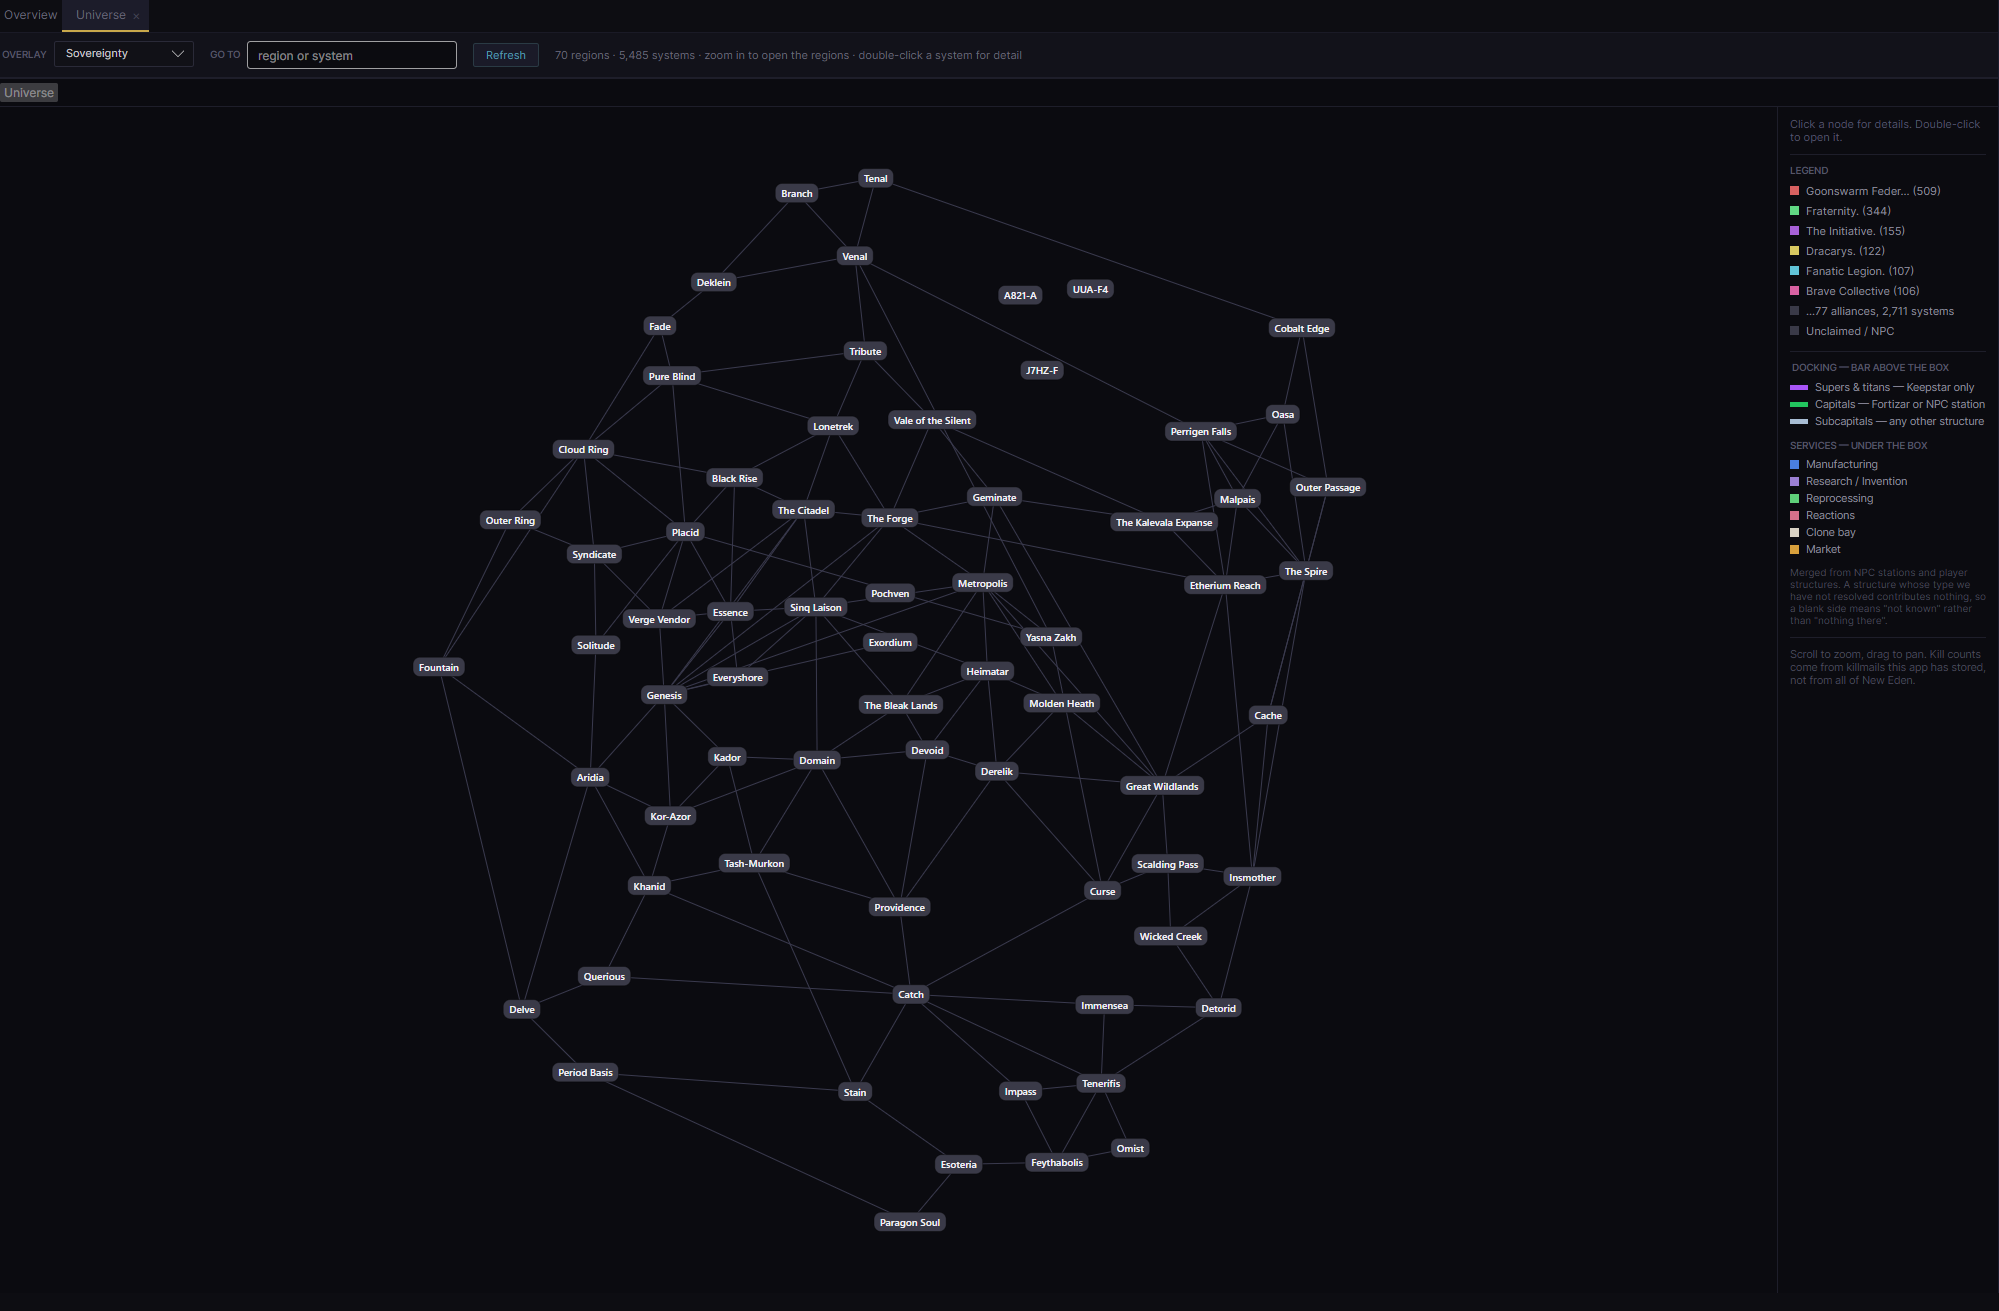
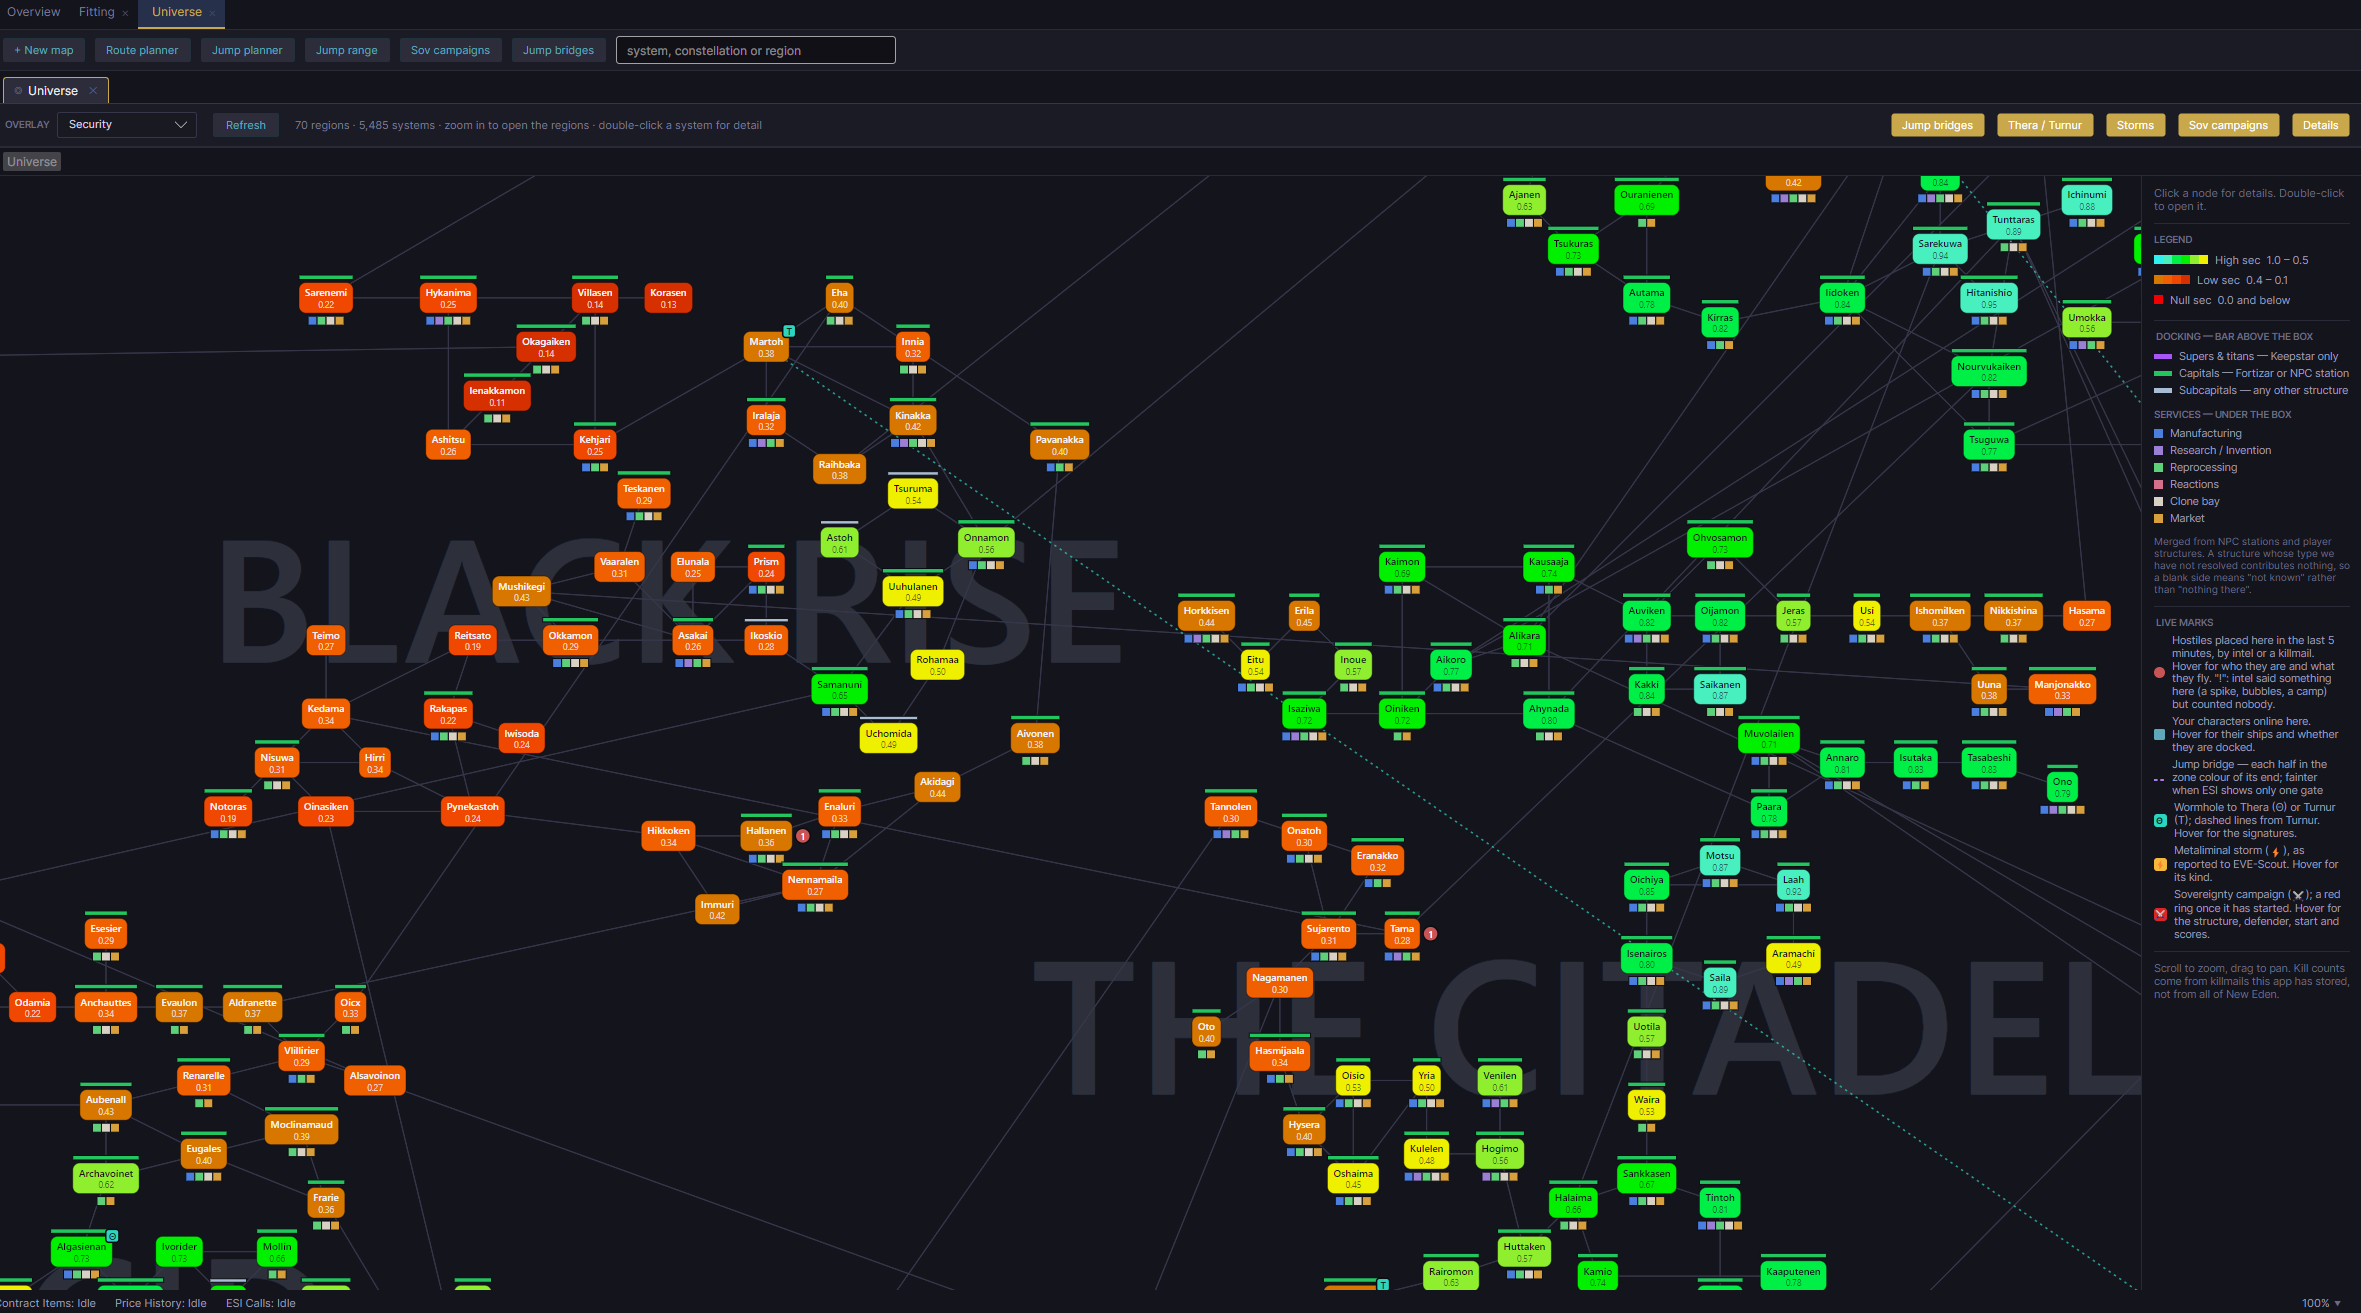
Gallery: new Universe Map shot, and the Fitting tool
The map shot shows the 0.9.16 map — tabs, docking and service markers, live-mark legend
(Black Rise / The Citadel, security overlay). Fitting added after Jump Planner as image 20.

diff --git a/public/index.html b/public/index.html
@@ -312,10 +312,11 @@
       <div class="shots">
         <button class="shot" type="button"><span class="cap"><span class="cap-text">Overview</span><span class="go">enlarge ⤢</span></span><span class="frame"><img src="images/thumb/11.jpg" data-full="images/full/11.png" alt="The Overview dashboard: activity summary, income and expense, worklist, alerts, notifications, sale listing, and standing projects" loading="lazy"></span></button>
         <button class="shot" type="button"><span class="cap"><span class="cap-text">Worklist</span><span class="go">enlarge ⤢</span></span><span class="frame"><img src="images/thumb/19.jpg" data-full="images/full/19.png" alt="Worklist showing what to do next across all characters, grouped by task type with value and volume" loading="lazy"></span></button>
-        <button class="shot" type="button"><span class="cap"><span class="cap-text">Universe Map</span><span class="go">enlarge ⤢</span></span><span class="frame"><img src="images/thumb/12.jpg" data-full="images/full/12.png" alt="Universe map with a sovereignty overlay across all regions of New Eden" loading="lazy"></span></button>
+        <button class="shot" type="button"><span class="cap"><span class="cap-text">Universe Map</span><span class="go">enlarge ⤢</span></span><span class="frame"><img src="images/thumb/12.jpg" data-full="images/full/12.png" alt="Universe map tab with a security overlay over Black Rise and The Citadel, showing docking and service markers, the legend of live marks, and the Route planner, Jump planner, Jump range, Sov campaigns and Jump bridges tabs" loading="lazy"></span></button>
         <button class="shot" type="button"><span class="cap"><span class="cap-text">Region View</span><span class="go">enlarge ⤢</span></span><span class="frame"><img src="images/thumb/13.jpg" data-full="images/full/13.png" alt="Region view of The Forge with a security-status overlay" loading="lazy"></span></button>
         <button class="shot" type="button"><span class="cap"><span class="cap-text">System View</span><span class="go">enlarge ⤢</span></span><span class="frame"><img src="images/thumb/14.jpg" data-full="images/full/14.png" alt="System view for Jita with jumps and kills graphs, gates, and NPC stations" loading="lazy"></span></button>
         <button class="shot" type="button"><span class="cap"><span class="cap-text">Jump Planner</span><span class="go">enlarge ⤢</span></span><span class="frame"><img src="images/thumb/15.jpg" data-full="images/full/15.png" alt="Jump Planner showing a multi-waypoint capital route with fuel and distance for each leg" loading="lazy"></span></button>
+        <button class="shot" type="button"><span class="cap"><span class="cap-text">Fitting</span><span class="go">enlarge ⤢</span></span><span class="frame"><img src="images/thumb/20.jpg" data-full="images/full/20.png" alt="Fitting tool with a Vagabond and a Zealot open side by side: slots, modules and charges, with resources, value, offense, defense, capacitor, navigation and targeting worked out for the pilot" loading="lazy"></span></button>
         <button class="shot" type="button"><span class="cap"><span class="cap-text">Market Overview</span><span class="go">enlarge ⤢</span></span><span class="frame"><img src="images/thumb/4.jpg" data-full="images/full/4.png" alt="Market Overview dashboard with order and sales summaries and a daily-sales chart" loading="lazy"></span></button>
         <button class="shot" type="button"><span class="cap"><span class="cap-text">Sales Tracker</span><span class="go">enlarge ⤢</span></span><span class="frame"><img src="images/thumb/16.jpg" data-full="images/full/16.png" alt="Sales Tracker with top buyers, profit by market group and item, and a per-sale profit grid" loading="lazy"></span></button>
         <button class="shot" type="button"><span class="cap"><span class="cap-text">LP Market Values</span><span class="go">enlarge ⤢</span></span><span class="frame"><img src="images/thumb/17.jpg" data-full="images/full/17.png" alt="LP Market Values ranking loyalty-point stores by ISK per LP, priced against the market" loading="lazy"></span></button>
